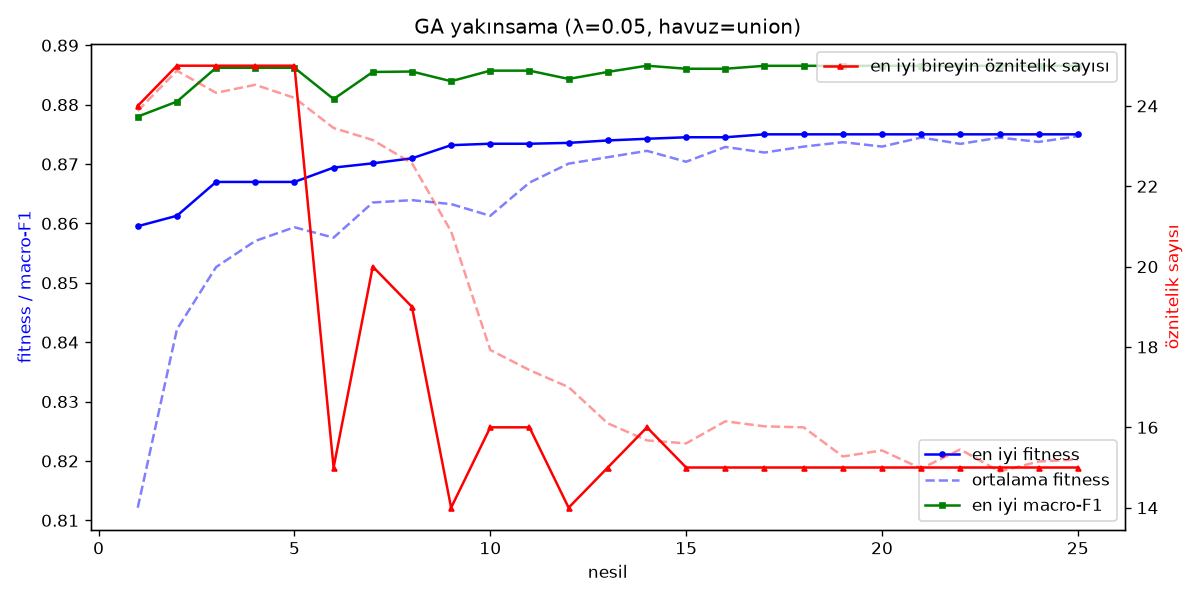
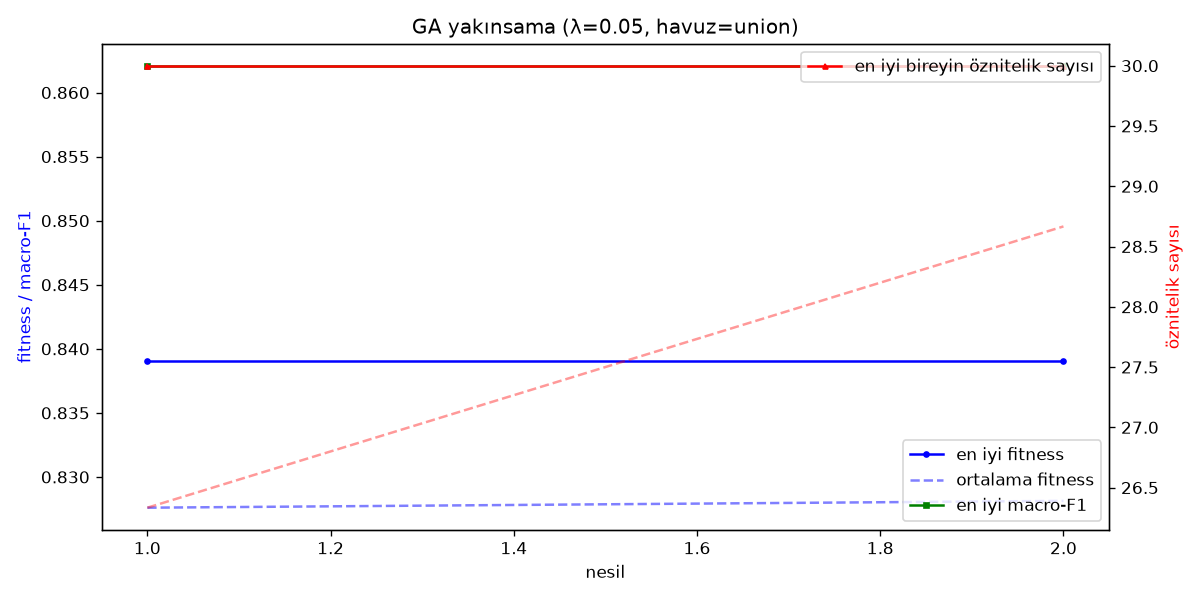
Adım 5b: GA çekirdeği run_ga olarak ayrıldı + λ taraması betiği
- genetic_algorithm.run_ga(): GA mantığı tek yerde, lambda_sweep de kullanır
- src/lambda_sweep.py: GA'yı çok sayıda λ'da koşar, her biri için tam-ölçek
  test macro-F1, λ ↔ öznitelik ↔ macro-F1 denge grafiği

diff --git a/src/genetic_algorithm.py b/src/genetic_algorithm.py
@@ -69,6 +69,60 @@ def fix_empty(ind) -> None:
         ind[random.randrange(len(ind))] = 1
 
 
+def run_ga(ev: FitnessEvaluator, *, pop: int, generations: int, cxpb: float, mutpb: float,
+           mut_indpb: float, elite: int, init_p: float, verbose: bool = True) -> dict:
+    """GA çekirdeği. `ev` fitness değerlendirici. En iyi alt küme + nesil logu döndürür.
+
+    lambda_sweep.py da bu fonksiyonu çağırır — GA mantığı tek yerde.
+    """
+    tb = build_toolbox(ev.pool_size, ev, init_p, mut_indpb)
+    population = tb.population(n=pop)
+    for ind in population:
+        fix_empty(ind)
+        ind.fitness.values = tb.evaluate(ind)
+
+    log = []
+    t0 = time.perf_counter()
+    for gen in range(1, generations + 1):
+        offspring = [tb.clone(o) for o in tb.select(population, len(population) - elite)]
+        for c1, c2 in zip(offspring[::2], offspring[1::2]):
+            if random.random() < cxpb:
+                tb.mate(c1, c2)
+                del c1.fitness.values, c2.fitness.values
+        for m in offspring:
+            if random.random() < mutpb:
+                tb.mutate(m)
+                del m.fitness.values
+        for ind in offspring:
+            fix_empty(ind)
+            if not ind.fitness.valid:
+                ind.fitness.values = tb.evaluate(ind)
+        population = tools.selBest(population, elite) + offspring
+
+        bi = ev.evaluate(tools.selBest(population, 1)[0])
+        sizes = [sum(i) for i in population]
+        log.append({
+            "gen": gen,
+            "best_fitness": float(bi["fitness"]), "best_macro_f1": float(bi["macro_f1"]),
+            "best_n_features": int(bi["n_selected"]),
+            "mean_fitness": float(np.mean([i.fitness.values[0] for i in population])),
+            "mean_n_features": float(np.mean(sizes)),
+        })
+        if verbose:
+            print(f"  nesil {gen:2d}: en iyi fitness={bi['fitness']:.4f}  macro-F1={bi['macro_f1']:.4f}  "
+                  f"öznitelik={bi['n_selected']:2d}  (ort {np.mean(sizes):.1f}, "
+                  f"benzersiz değerlendirme {ev.n_evals})")
+
+    bi = ev.evaluate(tools.selBest(population, 1)[0])
+    return {
+        "runtime_s": time.perf_counter() - t0,
+        "unique_evaluations": ev.n_evals,
+        "best": {"n_features": bi["n_selected"], "val_macro_f1": bi["macro_f1"],
+                 "fitness": bi["fitness"], "features": bi["features"]},
+        "history": log,
+    }
+
+
 def main() -> None:
     ap = argparse.ArgumentParser(description=__doc__, formatter_class=argparse.RawDescriptionHelpFormatter)
     ap.add_argument("--pool", default="union", choices=["rf", "mi", "union", "overlap"])
@@ -94,72 +148,18 @@ def main() -> None:
           f"pop={args.pop} nesil={args.generations}")
     print(f"Fitness alt örneklem: train {len(ev.y_tr):,} / val {len(ev.y_va):,}\n")
 
-    tb = build_toolbox(ev.pool_size, ev, args.init_p, args.mut_indpb)
-    pop = tb.population(n=args.pop)
-    for ind in pop:
-        fix_empty(ind)
-        ind.fitness.values = tb.evaluate(ind)
-
-    log = []
-    t0 = time.perf_counter()
-    for gen in range(1, args.generations + 1):
-        offspring = tb.select(pop, len(pop) - args.elite)
-        offspring = [tb.clone(o) for o in offspring]
-
-        for c1, c2 in zip(offspring[::2], offspring[1::2]):
-            if random.random() < args.cxpb:
-                tb.mate(c1, c2)
-                del c1.fitness.values, c2.fitness.values
-        for m in offspring:
-            if random.random() < args.mutpb:
-                tb.mutate(m)
-                del m.fitness.values
-        for ind in offspring:
-            fix_empty(ind)
-            if not ind.fitness.valid:
-                ind.fitness.values = tb.evaluate(ind)
-
-        pop = tools.selBest(pop, args.elite) + offspring
-
-        best = tools.selBest(pop, 1)[0]
-        best_info = ev.evaluate(best)
-        fits = [i.fitness.values[0] for i in pop]
-        sizes = [sum(i) for i in pop]
-        log.append({
-            "gen": gen,
-            "best_fitness": float(best_info["fitness"]),
-            "best_macro_f1": float(best_info["macro_f1"]),
-            "best_n_features": int(best_info["n_selected"]),
-            "mean_fitness": float(np.mean(fits)),
-            "mean_n_features": float(np.mean(sizes)),
-            "unique_evals": ev.n_evals,
-        })
-        print(f"  nesil {gen:2d}: en iyi fitness={best_info['fitness']:.4f}  "
-              f"macro-F1={best_info['macro_f1']:.4f}  öznitelik={best_info['n_selected']:2d}  "
-              f"(ort öznitelik {np.mean(sizes):.1f}, benzersiz değerlendirme {ev.n_evals})")
-
-    runtime = time.perf_counter() - t0
-    best = tools.selBest(pop, 1)[0]
-    bi = ev.evaluate(best)
-    print(f"\nGA bitti ({runtime:.0f}s, {ev.n_evals} benzersiz değerlendirme)")
-    print(f"En iyi alt küme: {bi['n_selected']} öznitelik | val macro-F1 = {bi['macro_f1']:.4f} | "
+    result = run_ga(ev, pop=args.pop, generations=args.generations, cxpb=args.cxpb,
+                    mutpb=args.mutpb, mut_indpb=args.mut_indpb, elite=args.elite, init_p=args.init_p)
+    result["method"] = "genetic_algorithm"
+    result["params"] = vars(args)
+    result["pool_size"] = ev.pool_size
+    log = result["history"]
+    bi = result["best"]
+    print(f"\nGA bitti ({result['runtime_s']:.0f}s, {result['unique_evaluations']} benzersiz değerlendirme)")
+    print(f"En iyi alt küme: {bi['n_features']} öznitelik | val macro-F1 = {bi['val_macro_f1']:.4f} | "
           f"fitness = {bi['fitness']:.4f}")
     print("Öznitelikler:", bi["features"])
 
-    result = {
-        "method": "genetic_algorithm",
-        "params": vars(args),
-        "pool_size": ev.pool_size,
-        "runtime_s": runtime,
-        "unique_evaluations": ev.n_evals,
-        "best": {
-            "n_features": bi["n_selected"],
-            "val_macro_f1": bi["macro_f1"],
-            "fitness": bi["fitness"],
-            "features": bi["features"],
-        },
-        "history": log,
-    }
     (METRICS_DIR / "ga_result.json").write_text(json.dumps(result, indent=2), encoding="utf-8")
 
     # yakınsama grafiği

diff --git a/src/lambda_sweep.py b/src/lambda_sweep.py
@@ -1,0 +1,126 @@
+"""Adım 5b — λ (sadelik cezası) taraması.
+
+Fitness = macro_F1_val - λ·(seçilen / havuz)
+
+λ büyüdükçe GA daha az öznitelik seçmeye zorlanır. Bu betik GA'yı birden çok
+λ değerinde koşar ve "λ ↔ öznitelik sayısı ↔ macro-F1" denge eğrisini çıkarır.
+Amaç: mentörün istediği 20-25 öznitelik bandına düşen λ'yı bulmak ve
+performans-sadelik ödünleşimini görselleştirmek.
+
+Her λ için:
+  * GA (hızlı fitness: 60k/30k alt örneklem)
+  * bulunan alt kümenin DOKUNULMAMIŞ test setinde tam-ölçek RF ile macro-F1'i
+
+Çıktı
+    results/metrics/lambda_sweep.json
+    results/figures/06_lambda_sweep.png
+
+Kullanım
+--------
+    python src/lambda_sweep.py
+    python src/lambda_sweep.py --lambdas 0.01 0.02 0.05 0.1 --pop 30 --generations 18
+"""
+from __future__ import annotations
+
+import argparse
+import json
+import random
+import time
+from pathlib import Path
+
+import matplotlib.pyplot as plt
+import numpy as np
+from sklearn.ensemble import RandomForestClassifier
+from sklearn.metrics import f1_score
+
+from fs_common import FitnessEvaluator
+from genetic_algorithm import run_ga
+from utils import ROOT, compute_metrics, load_processed
+
+METRICS_DIR = ROOT / "results" / "metrics"
+FIG_DIR = ROOT / "results" / "figures"
+SEED = 42
+
+
+def full_test_eval(feats: list[str], ds) -> dict:
+    """Alt kümeyi (train+val)'e fit edilmiş tam-ölçek RF ile test setinde değerlendir."""
+    rf = RandomForestClassifier(n_estimators=200, n_jobs=-1, random_state=SEED, class_weight="balanced")
+    rf.fit(ds.X_trainval[feats], ds.y_trainval)
+    pred = rf.predict(ds.X_test[feats])
+    m = compute_metrics(ds.y_test, pred, ds.class_names)
+    return {"test_macro_f1": m["macro_f1"], "test_accuracy": m["accuracy"],
+            "test_suspicious_f1": m["per_class"]["Suspicious"]["f1"]}
+
+
+def main() -> None:
+    ap = argparse.ArgumentParser(description=__doc__, formatter_class=argparse.RawDescriptionHelpFormatter)
+    ap.add_argument("--lambdas", type=float, nargs="+",
+                    default=[0.01, 0.02, 0.03, 0.05, 0.10, 0.20])
+    ap.add_argument("--pool", default="union", choices=["rf", "mi", "union", "overlap"])
+    ap.add_argument("--pop", type=int, default=30)
+    ap.add_argument("--generations", type=int, default=18)
+    args = ap.parse_args()
+
+    METRICS_DIR.mkdir(parents=True, exist_ok=True)
+    FIG_DIR.mkdir(parents=True, exist_ok=True)
+    ds = load_processed()
+
+    rows = []
+    for lam in args.lambdas:
+        print(f"\n########## λ = {lam} ##########")
+        random.seed(SEED)
+        np.random.seed(SEED)
+        ev = FitnessEvaluator(pool=args.pool, lam=lam, seed=SEED, ds=ds)
+        t0 = time.perf_counter()
+        res = run_ga(ev, pop=args.pop, generations=args.generations, cxpb=0.6, mutpb=0.2,
+                     mut_indpb=0.05, elite=2, init_p=0.35, verbose=False)
+        best = res["best"]
+        test = full_test_eval(best["features"], ds)
+        row = {
+            "lambda": lam,
+            "n_features": best["n_features"],
+            "val_macro_f1": best["val_macro_f1"],
+            "fitness": best["fitness"],
+            "test_macro_f1": test["test_macro_f1"],
+            "test_accuracy": test["test_accuracy"],
+            "test_suspicious_f1": test["test_suspicious_f1"],
+            "features": best["features"],
+            "ga_runtime_s": res["runtime_s"],
+        }
+        rows.append(row)
+        print(f"  -> {row['n_features']:2d} öznitelik | val macro-F1 {row['val_macro_f1']:.4f} | "
+              f"TEST macro-F1 {row['test_macro_f1']:.4f} | acc {row['test_accuracy']:.4f} | "
+              f"({time.perf_counter() - t0:.0f}s)")
+
+    (METRICS_DIR / "lambda_sweep.json").write_text(json.dumps(rows, indent=2), encoding="utf-8")
+
+    # tablo
+    print("\n| λ | Öznitelik | Val macro-F1 | Test macro-F1 | Test acc | Suspicious F1 |")
+    print("|---|---|---|---|---|---|")
+    for r in rows:
+        print(f"| {r['lambda']} | {r['n_features']} | {r['val_macro_f1']:.4f} | "
+              f"{r['test_macro_f1']:.4f} | {r['test_accuracy']:.4f} | {r['test_suspicious_f1']:.4f} |")
+
+    # grafik: sol eksen macro-F1, sağ eksen öznitelik sayısı, x = λ
+    lams = [r["lambda"] for r in rows]
+    fig, ax1 = plt.subplots(figsize=(10, 5.5))
+    ax1.plot(lams, [r["test_macro_f1"] for r in rows], "g-o", label="test macro-F1")
+    ax1.plot(lams, [r["val_macro_f1"] for r in rows], "g--^", alpha=0.5, label="val macro-F1 (GA içi)")
+    ax1.plot(lams, [r["test_suspicious_f1"] for r in rows], "m-s", alpha=0.7, label="test Suspicious F1")
+    ax1.set_xlabel("λ (sadelik cezası ağırlığı)"); ax1.set_ylabel("macro-F1", color="g")
+    ax1.set_xscale("log"); ax1.legend(loc="center left")
+    ax2 = ax1.twinx()
+    ax2.plot(lams, [r["n_features"] for r in rows], "r-D", label="öznitelik sayısı")
+    ax2.axhspan(20, 25, color="orange", alpha=0.15)
+    ax2.set_ylabel("seçilen öznitelik sayısı", color="r")
+    for r in rows:
+        ax2.annotate(str(r["n_features"]), (r["lambda"], r["n_features"]),
+                     textcoords="offset points", xytext=(0, 6), ha="center", color="r")
+    plt.title("λ taraması — sadelik / performans ödünleşimi (turuncu bant: 20-25 hedefi)")
+    plt.tight_layout(); plt.savefig(FIG_DIR / "06_lambda_sweep.png", dpi=120); plt.close(fig)
+
+    print(f"\nKaydedildi -> {METRICS_DIR / 'lambda_sweep.json'}")
+
+
+if __name__ == "__main__":
+    main()
